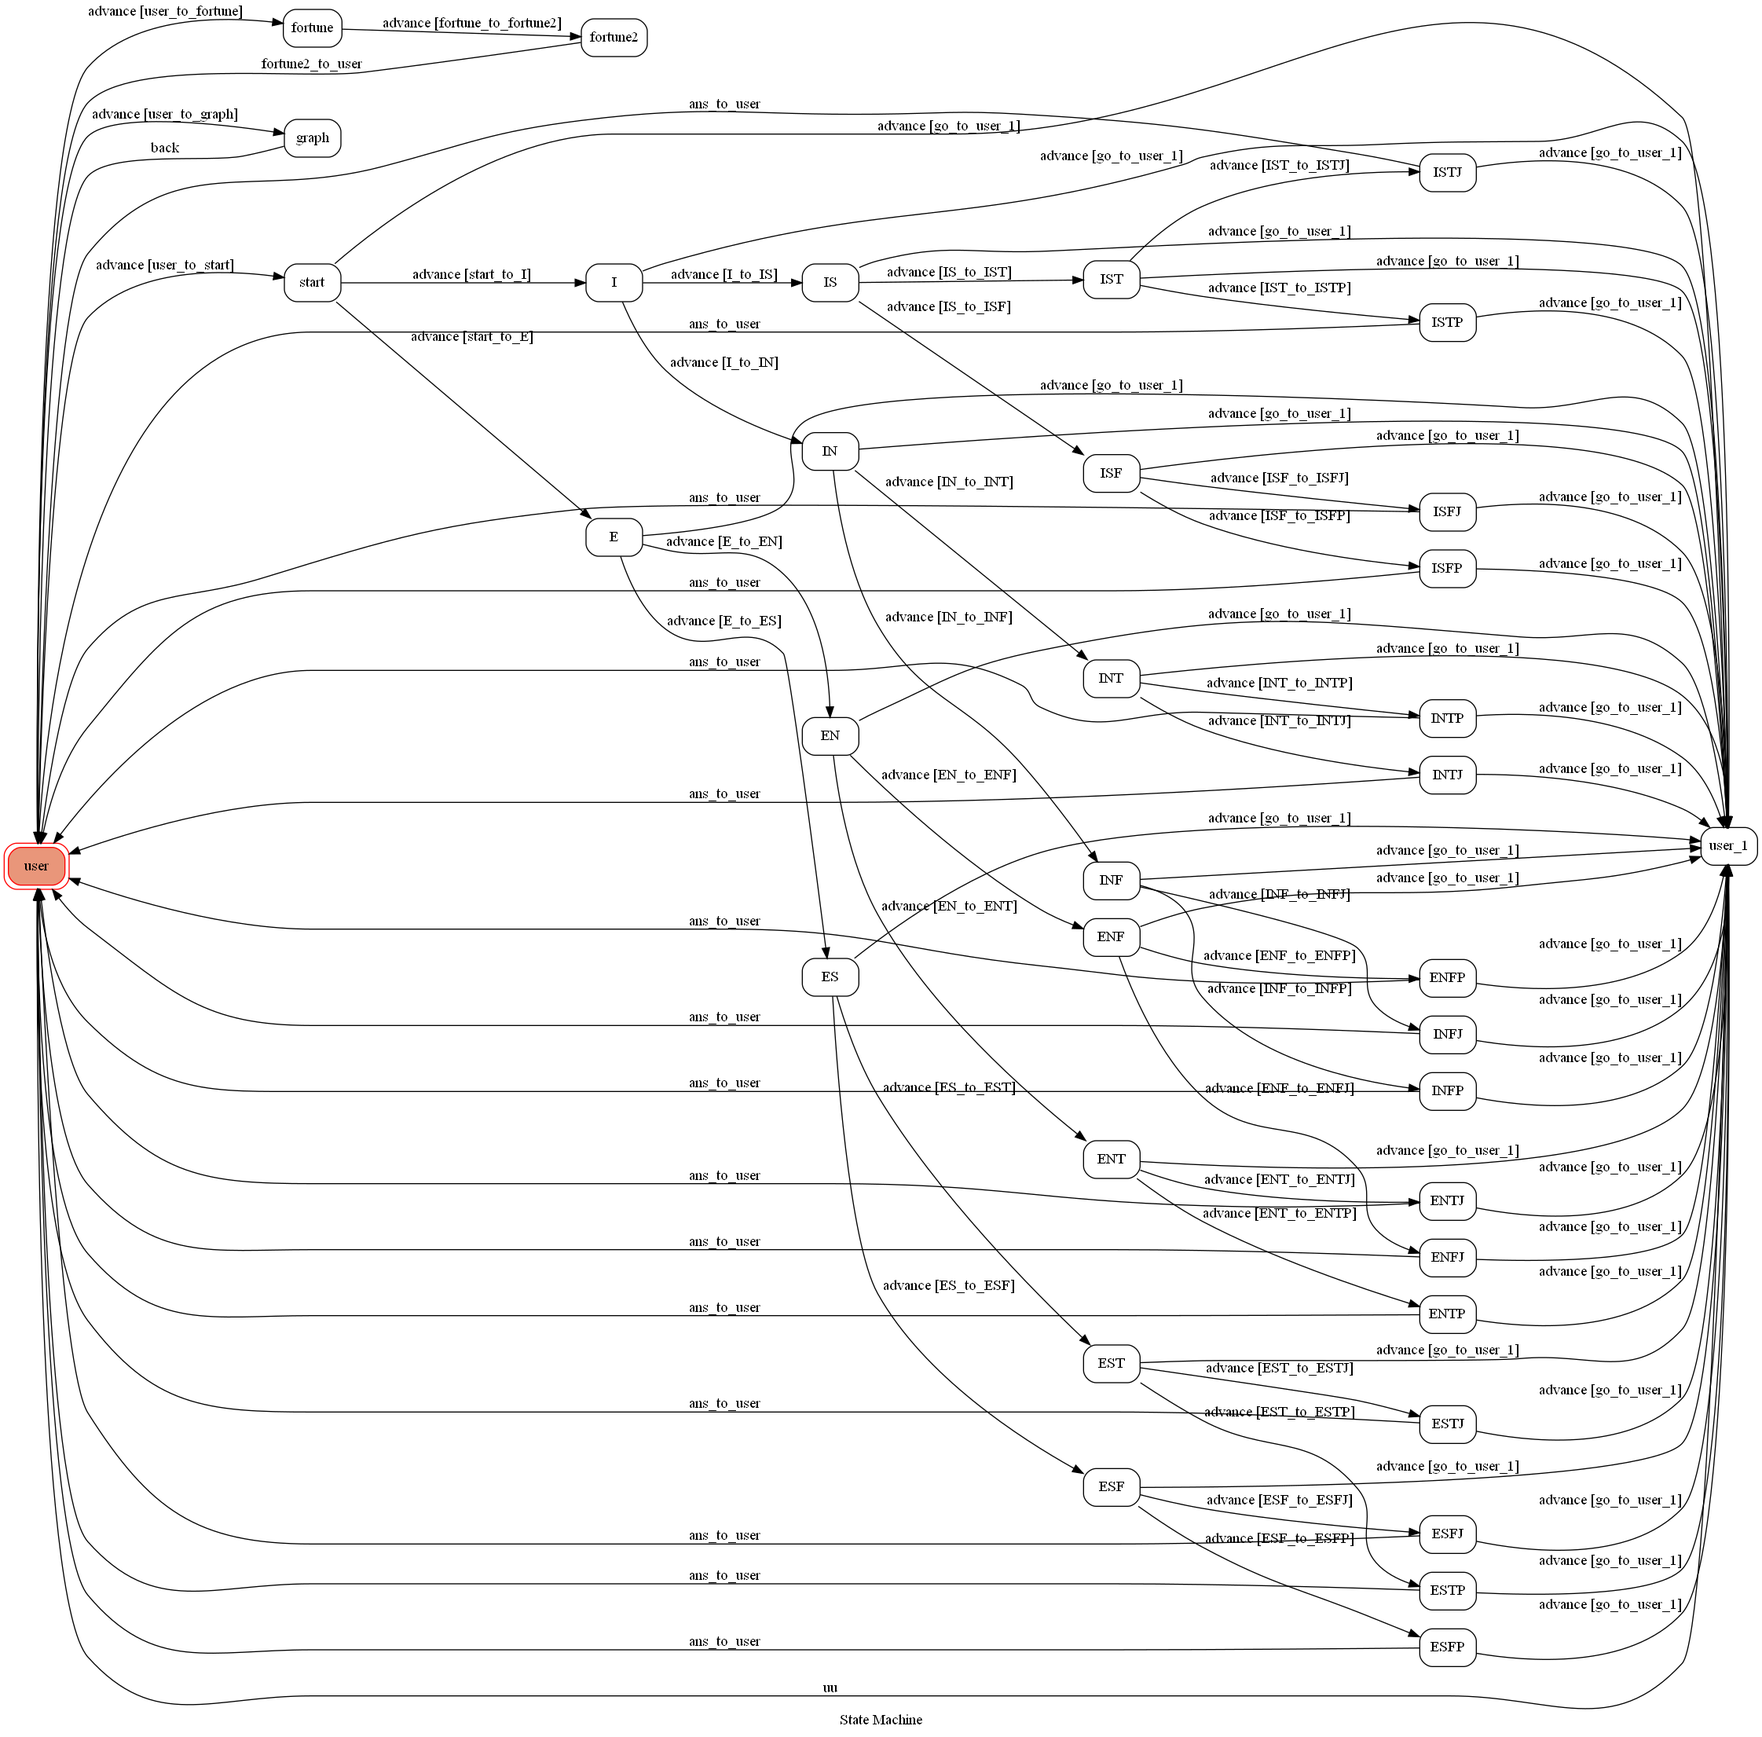
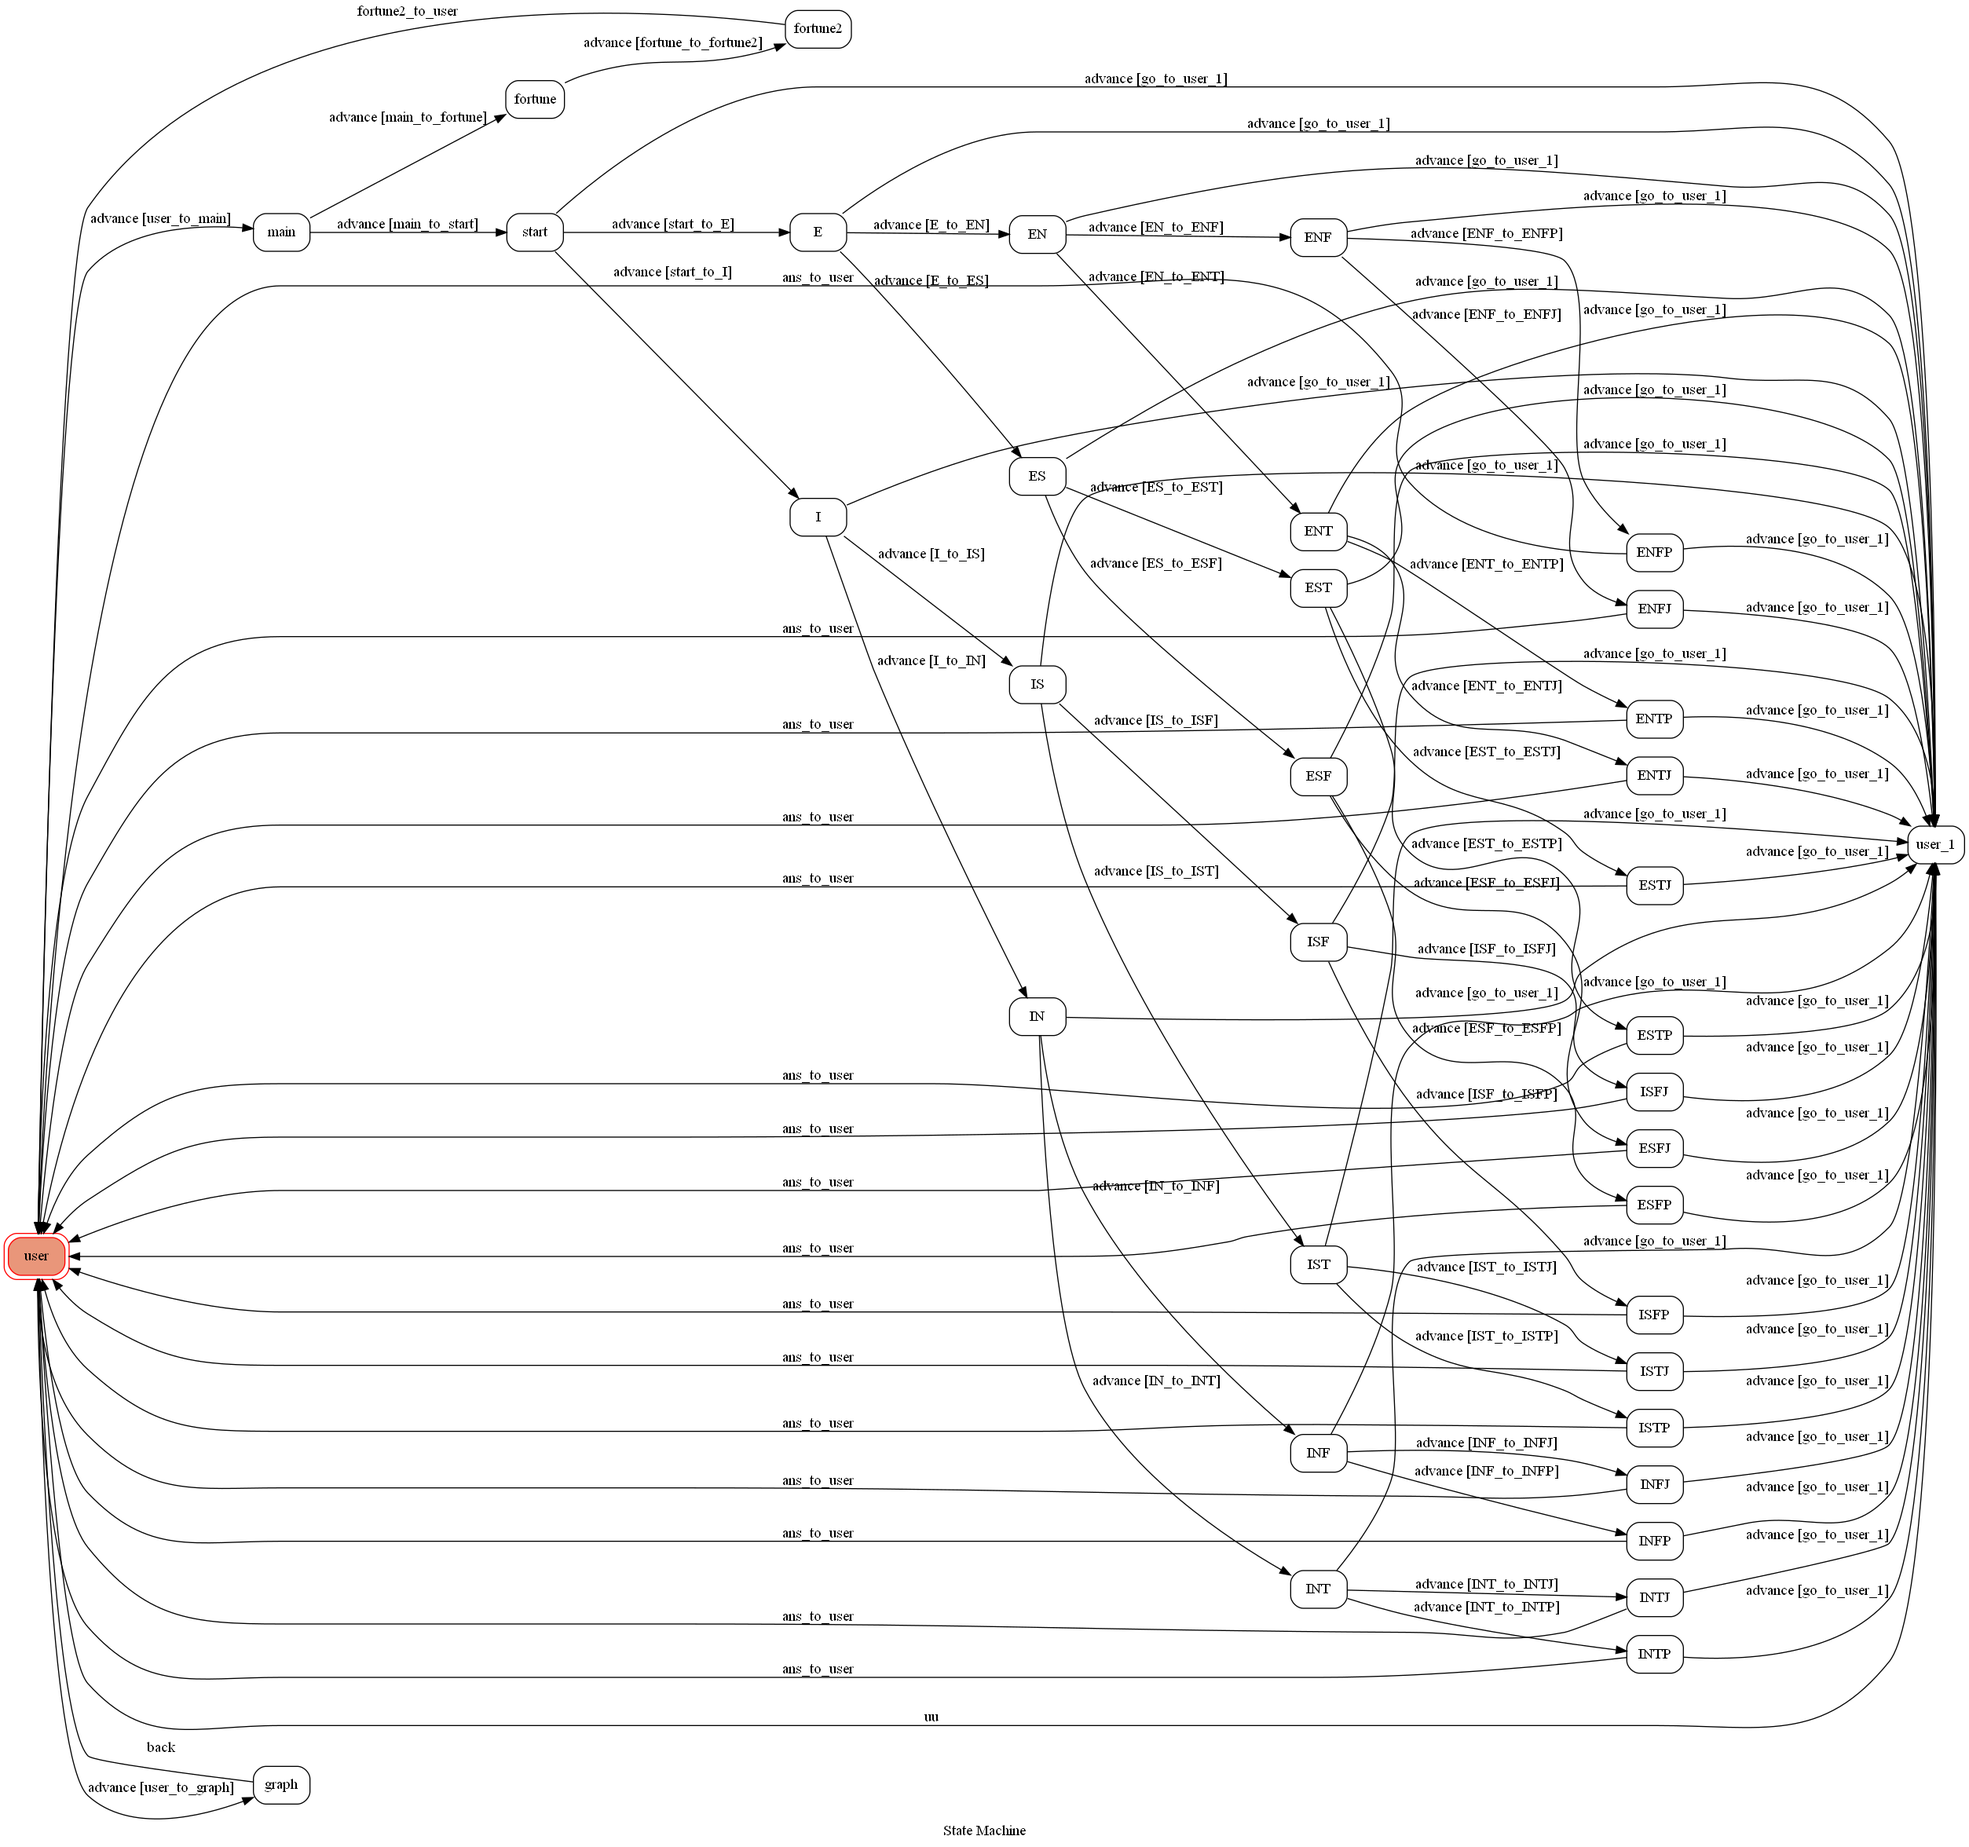
make it better

diff --git a/fsm.py b/fsm.py
@@ -2,6 +2,8 @@ from transitions.extensions import GraphMachine
 
 from utils import send_text_message
 from utils import send_image_message
+from utils import send_button_message
+from linebot.models import MessageTemplateAction
 
 import requests
 
@@ -12,8 +14,27 @@ keyword = ["牡羊座", "金牛座", "雙子座", "巨蟹座", "獅子座", "處
 class TocMachine(GraphMachine):
     def __init__(self, **machine_configs):
         self.machine = GraphMachine(model=self, **machine_configs)
-        # self.machine.get_graph().draw("FSM.png", prog= 'dot')
+        self.machine.get_graph().draw("FSM.png", prog= 'dot')
 
+    def user_to_main(self, event):
+        text = event.message.text
+        return text.lower() != "graph"
+    
+    def on_enter_main(self, event):
+        title = "請選擇功能"
+        text = "請選擇功能"
+        btn = [
+            MessageTemplateAction(
+                label = "心理測驗",
+                text = "start"
+            ),
+            MessageTemplateAction(
+                label = "星座運勢",
+                text = "fortune"
+            )
+        ]
+        url = 'https://upload.cc/i1/2021/12/23/YWmdDu.png'
+        send_button_message(event.reply_token, title, text, btn, url)
     # 貓狗辨識
     # def user_to_pet(self, event):
     #     text = event.message.text
@@ -46,7 +67,7 @@ class TocMachine(GraphMachine):
     #         self.pet_to_user()
     
     # 心理測驗
-    def user_to_fortune(self, event):
+    def main_to_fortune(self, event):
         text = event.message.text
         return text.lower() == "fortune"
     
@@ -126,7 +147,7 @@ class TocMachine(GraphMachine):
         text = event.message.text
         return text.lower() == "graph"
 
-    def user_to_start(self, event):
+    def main_to_start(self, event):
         text = event.message.text
         return text.lower() == "start"
 
@@ -263,7 +284,7 @@ class TocMachine(GraphMachine):
         print("I'm entering graph")
 
         reply_token = event.reply_token
-        send_image_message(reply_token, "https://upload.cc/i1/2021/12/23/wUWD6J.png")
+        send_image_message(reply_token, "https://upload.cc/i1/2021/12/23/7YH2aw.png")
         # https://upload.cc/i1/2021/12/21/k4qsxn.png
         self.back()
     #

diff --git a/app.py b/app.py
@@ -17,8 +17,14 @@ load_dotenv()
 
 
 machine = TocMachine(
-    states=["user", "pet", "pet2","fortune", "fortune2","user_1", "graph","start", "I","E","IN","IS","EN","ES","INT","IST","ENT","EST","INF","ISF","ENF","ESF","INTJ","ISTJ","ENTJ","ESTJ","INFJ","ISFJ","ENFJ","ESFJ","INTP","ISTP","ENTP","ESTP","INFP","ISFP","ENFP","ESFP"],
+    states=["user", "main","fortune", "fortune2","user_1", "graph","start", "I","E","IN","IS","EN","ES","INT","IST","ENT","EST","INF","ISF","ENF","ESF","INTJ","ISTJ","ENTJ","ESTJ","INFJ","ISFJ","ENFJ","ESFJ","INTP","ISTP","ENTP","ESTP","INFP","ISFP","ENFP","ESFP"],
     transitions=[
+        {
+            "trigger": "advance",
+            "source": "user",
+            "dest": "main",
+            "conditions": "user_to_main",
+        },
         # # 寵物
         # {
         #     "trigger": "advance",
@@ -40,9 +46,9 @@ machine = TocMachine(
         # 運勢
         {
             "trigger": "advance",
-            "source": "user",
+            "source": "main",
             "dest": "fortune",
-            "conditions": "user_to_fortune",
+            "conditions": "main_to_fortune",
         },
         {
             "trigger": "advance",
@@ -70,9 +76,9 @@ machine = TocMachine(
         # 心理測驗
         {
             "trigger": "advance",
-            "source": "user",
+            "source": "main",
             "dest": "start",
-            "conditions": "user_to_start",
+            "conditions": "main_to_start",
         },
         {
             "trigger": "advance",
@@ -349,7 +355,7 @@ def webhook_handler():
         response = machine.advance(event)
         if response == False:
             if machine.state == "user" :
-                send_text_message(event.reply_token, "Please type \"START\" to start 心理測驗.\nPlesae type \"FORTUNE\" to start 今日星座運勢\nYou can type\"RESTART\" to restart anytime !")
+                send_text_message(event.reply_token, "Please type anything !")
             else :
                 send_text_message(event.reply_token, "Please type valid answer !")
 

diff --git a/utils.py b/utils.py
@@ -1,7 +1,7 @@
 import os
 
 from linebot import LineBotApi, WebhookParser
-from linebot.models import MessageEvent, TextMessage, TextSendMessage, ImageSendMessage
+from linebot.models import MessageEvent, TextMessage, TextSendMessage, ButtonsTemplate, TemplateSendMessage, ImageSendMessage
 
 
 channel_access_token = os.getenv("LINE_CHANNEL_ACCESS_TOKEN", None)
@@ -17,6 +17,21 @@ def send_image_message(reply_token, img):
     line_bot_api = LineBotApi(channel_access_token)
     line_bot_api.reply_message(reply_token, ImageSendMessage(original_content_url=img, preview_image_url=img))
     
+    return "OK"
+
+def send_button_message(reply_token, title, text, btn, url):
+    line_bot_api = LineBotApi(channel_access_token)
+    message = TemplateSendMessage(
+        alt_text='button template',
+        template = ButtonsTemplate(
+            title = title,
+            text = text,
+            thumbnail_image_url = url,
+            actions = btn
+        )
+    )
+    line_bot_api.reply_message(reply_token, message)
+
     return "OK"
 """
 def send_image_url(id, img_url):
